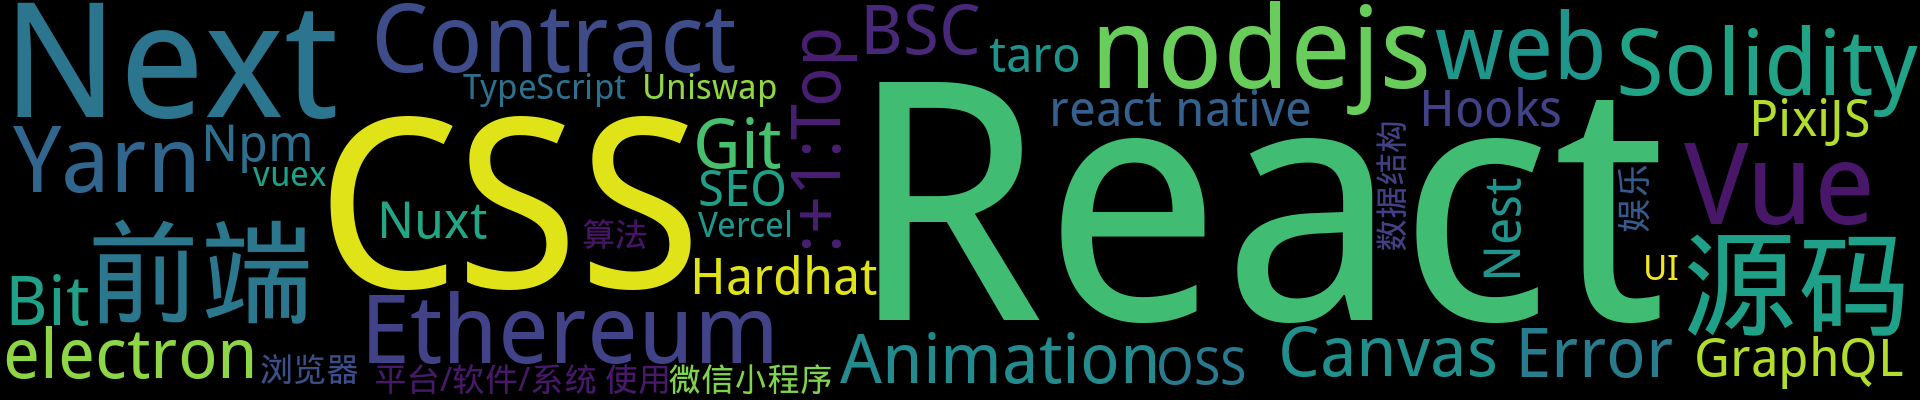
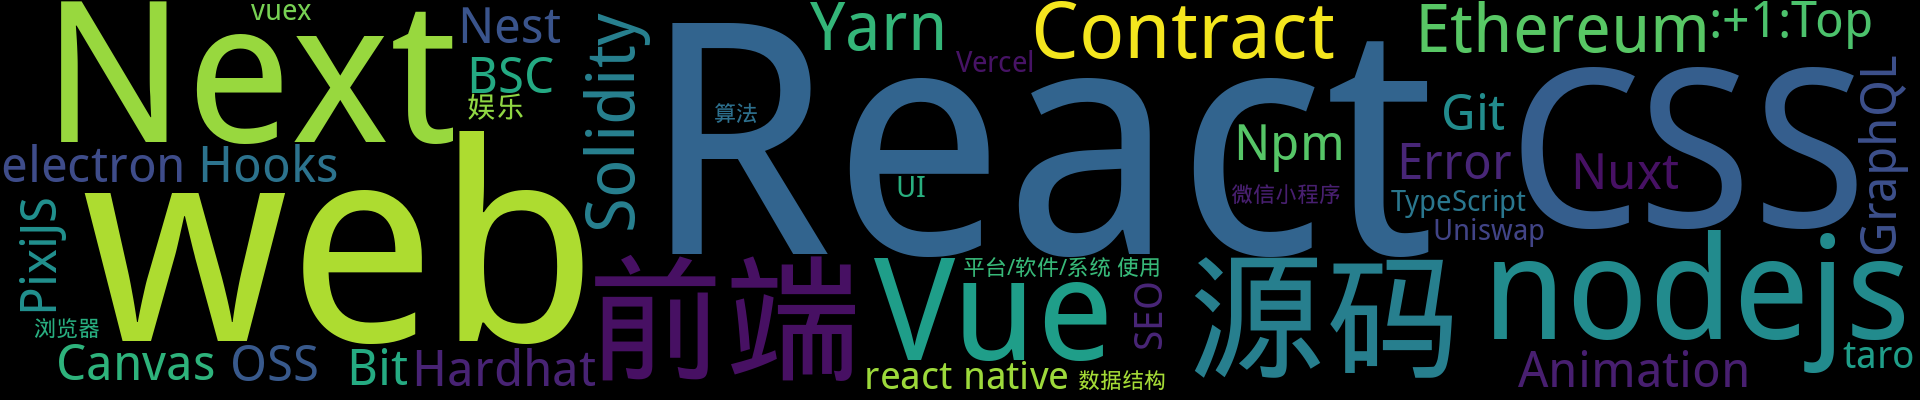
Update from Github Action

diff --git a/README.md b/README.md
@@ -3,7 +3,7 @@
 <p align='center'>
     <img src="https://badgen.net/badge/labels/54"/>
     <img src="https://badgen.net/github/issues/xiaotiandada/ghiblog"/>
-    <img src="https://badgen.net/badge/last-commit/2022-06-13 17:03:07"/>
+    <img src="https://badgen.net/badge/last-commit/2022-06-13 17:11:35"/>
     <img src="https://badgen.net/github/forks/xiaotiandada/ghiblog"/>
     <img src="https://badgen.net/github/stars/xiaotiandada/ghiblog"/>
     <img src="https://badgen.net/github/watchers/xiaotiandada/ghiblog"/>
@@ -23,7 +23,7 @@
 
 #### [Cross-Origin-Embedder-Policy](https://github.com/xiaotiandada/blog/issues/113) <sup>0 :speech_balloon:</sup> 	 2022-06-07 15:38:38
 
-:label: : 
+:label: : [web](https://github.com/xiaotiandada/ghiblog/labels/web)
 
 - https://developer.mozilla.org/zh-CN/docs/Web/HTTP/Headers/Cross-Origin-Embedder-Policy
 
@@ -36,7 +36,7 @@
 
 #### [Cross-Origin-Opener-Policy](https://github.com/xiaotiandada/blog/issues/112) <sup>0 :speech_balloon:</sup> 	 2022-06-07 15:34:31
 
-:label: : 
+:label: : [web](https://github.com/xiaotiandada/ghiblog/labels/web)
 
 - https://developer.mozilla.org/en-US/docs/Web/HTTP/Headers/Cross-Origin-Opener-Policy
 
@@ -49,7 +49,7 @@
 
 #### [Cross-Origin Resource Policy (CORP)](https://github.com/xiaotiandada/blog/issues/111) <sup>0 :speech_balloon:</sup> 	 2022-06-07 15:32:21
 
-:label: : 
+:label: : [web](https://github.com/xiaotiandada/ghiblog/labels/web)
 
 - https://developer.mozilla.org/en-US/docs/Web/HTTP/Cross-Origin_Resource_Policy_(CORP)
 - https://web.dev/coop-coep/?utm_source=devtools
@@ -435,8 +435,11 @@
 </details>
 
 <details>
-<summary>web	<sup>2:newspaper:</sup></summary>
+<summary>web	<sup>5:newspaper:</sup></summary>
 
+- [Cross-Origin-Embedder-Policy](https://github.com/xiaotiandada/blog/issues/113)  <sup>0 :speech_balloon:</sup>  	 
+- [Cross-Origin-Opener-Policy](https://github.com/xiaotiandada/blog/issues/112)  <sup>0 :speech_balloon:</sup>  	 
+- [Cross-Origin Resource Policy (CORP)](https://github.com/xiaotiandada/blog/issues/111)  <sup>0 :speech_balloon:</sup>  	 
 - [Keyboard API](https://github.com/xiaotiandada/blog/issues/98)  <sup>0 :speech_balloon:</sup>  	 
 - [Fullscreen API](https://github.com/xiaotiandada/blog/issues/97)  <sup>0 :speech_balloon:</sup>  	 
 
